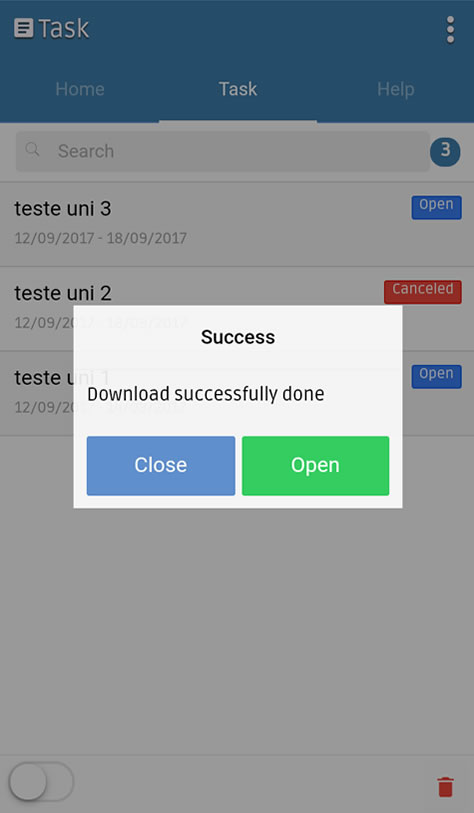
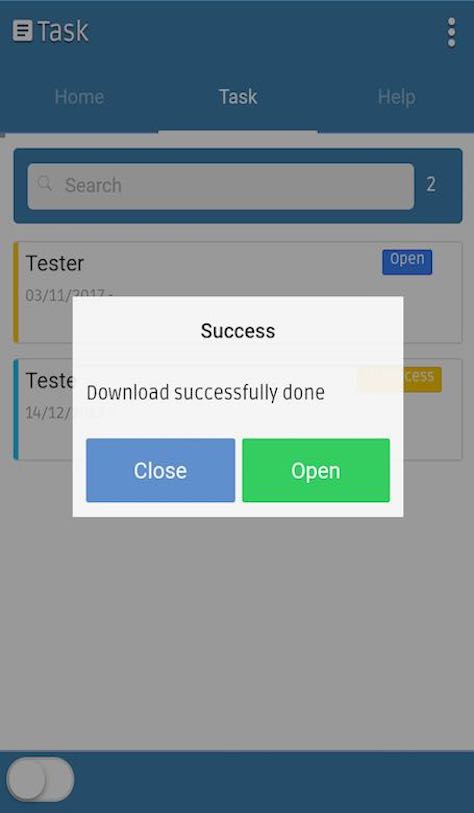
corrected bug with cordova file plugins, ajust of the images help with new layout of the app

diff --git a/www/js/controllers/help.controller.js b/www/js/controllers/help.controller.js
@@ -3,18 +3,18 @@ app.controller('HelpController', ["$scope", "$ionicModal", "$ionicSlideBoxDelega
     $scope.topics = [
         {src: 'img/help/home.jpg', text: "Home, a calendar to filter all tasks in the selected day."},
         {src: 'img/help/task.jpg', text: "Menu task, management of tasks, create edit, delete, export, import, view graphic with situations, priority and status, is possible filter a specific task"},
+        {src: 'img/help/task-delete-check.jpg', text: "Click at the toggle in the bottom on left, select the tasks and click again in the toggle."},
+        {src: 'img/help/task-delete.jpg', text: "Click in 'ok' to delete the selected tasks, or 'cancel' to abort"},
         {src: 'img/help/task-option.jpg', text: "In the icon on top at right the are actions, create, import, export a graphic"},
         {src: 'img/help/task-create.jpg', text: "Create a new task, with title and start date required"},
-        {src: 'img/help/task-edit.jpg', text: "Choose a task and drag to right to show edit button"},
-        {src: 'img/help/task-update.jpg', text: "Update the data of a task, in eye icon is possible go to the view of the this task"},
-        {src: 'img/help/task-view.jpg', text: "In menu taks, choose a task and click on it to go the view page, in pencil icon is possible go to the edit of the this task"},
         {src: 'img/help/task-grap.jpg', text: "A graph of 'status', 'stuation' and 'prority' for all tasks"},
-        {src: 'img/help/task-delete.jpg', text: "Click at the toggle in the bottom on left, select the task, confirm and delete"},
-        {src: 'img/help/task-delete-all.jpg', text: "Click in the trash icon, in the bottom on right, confirm and delete all tasks"},
         {src: 'img/help/task-download.jpg', text: "Download the tasks(with filter too) in your app(.csv)"},
         {src: 'img/help/task-download-done.jpg', text: "After download tasks is possible open the file, if you have the 'Excel' app"},
         {src: 'img/help/task-import.jpg', text: "Upload to create tasks by a file .csv"},
         {src: 'img/help/task-file.jpg', text: "See a example of the csv file"},
+        {src: 'img/help/task-edit.jpg', text: "Choose a task and drag to right to show edit button"},
+        {src: 'img/help/task-update.jpg', text: "Update the data of a task, in eye icon is possible go to the view of the this task"},
+        {src: 'img/help/task-view.jpg', text: "In menu taks, choose a task and click on it to go the view page, in pencil icon is possible go to the edit of the this task"},
     ];
 
     $scope.showGallery = function(index)

diff --git a/www/js/controllers/task.controller.js b/www/js/controllers/task.controller.js
@@ -17,7 +17,7 @@ app.controller('TaskController', [
         */
         $scope.find = function()
         {
-            Loading.show();
+            Loading.show('spiral');
             Task.find().then(function(r){
                 $scope.tasks = r;
             }, function(e){
@@ -38,7 +38,7 @@ app.controller('TaskController', [
         $scope.findOne = function()
         {
             $scope.task = Task.populateFields({},1);
-            Loading.show();
+            Loading.show('spiral');
             
             if( $state.params.taskId )
             {

diff --git a/www/js/services/task.expoImpo.service.js b/www/js/services/task.expoImpo.service.js
@@ -134,7 +134,7 @@ function($rootScope, messageBox, $filter, Task, Log, $cordovaFile, $cordovaFileO
                     }
                 };
                 // Read in the image file as a data URL.
-                reader.readAsText(f,'UTF-8')//, 'ISO-8859-1');
+                reader.readAsText(f, 'ISO-8859-1');// ,'UTF-8')
             }
             else{
                 reject("The extension this file is not a valid csv file!");

diff --git a/www/js/controllers/home.controller.js b/www/js/controllers/home.controller.js
@@ -5,7 +5,7 @@ app.controller('HomeController', ["$scope", "$filter", "$timeout","messageBox", 
 
     $scope.findOpen = function()
     {
-        Loading.show();
+        Loading.show('spiral');
         var start = new Date($filter('date')($scope.date, 'yyyy-MM-dd 00:00:00')).getTime();
         var end = new Date($filter('date')($scope.date, 'yyyy-MM-dd 23:59:59')).getTime();
 

diff --git a/www/js/services/badge.helper.service.js b/www/js/services/badge.helper.service.js
@@ -41,7 +41,7 @@ app.factory('BadgeHelper', ['$ionicPlatform', '$cordovaBadge', 'messageBox', 'Lo
 
     function redirectBadge(action)
     {
-        Loading.show();
+        Loading.show('spiral');
         Task.opened().then(function(opened){
             Log.info("task-open: " + opened.total);
             addBadge(opened.total)

diff --git a/www/js/services/task.synchronize.service.js b/www/js/services/task.synchronize.service.js
@@ -4,7 +4,7 @@ app.factory('TaskSync', ['$rootScope', '$timeout','Database', 'Task', 'Loading',
      */
     function initialize()
     {
-        Loading.show();
+        Loading.show('spiral');
         Database.initialize({
             tableName: 'task',
             columns: Task.populateFields({}, 0)

diff --git a/www/css/style.css b/www/css/style.css
@@ -364,7 +364,8 @@ label.item.valid-lr {
     letter-spacing: 1px;
     position: absolute;
     font-family: 'Open Sans Condensed', sans-serif;
-    bottom: 0;
+    opacity: 0.7;
+    top: 1.2%;
 }
 .image-item{
     list-style-type: circle !important;
